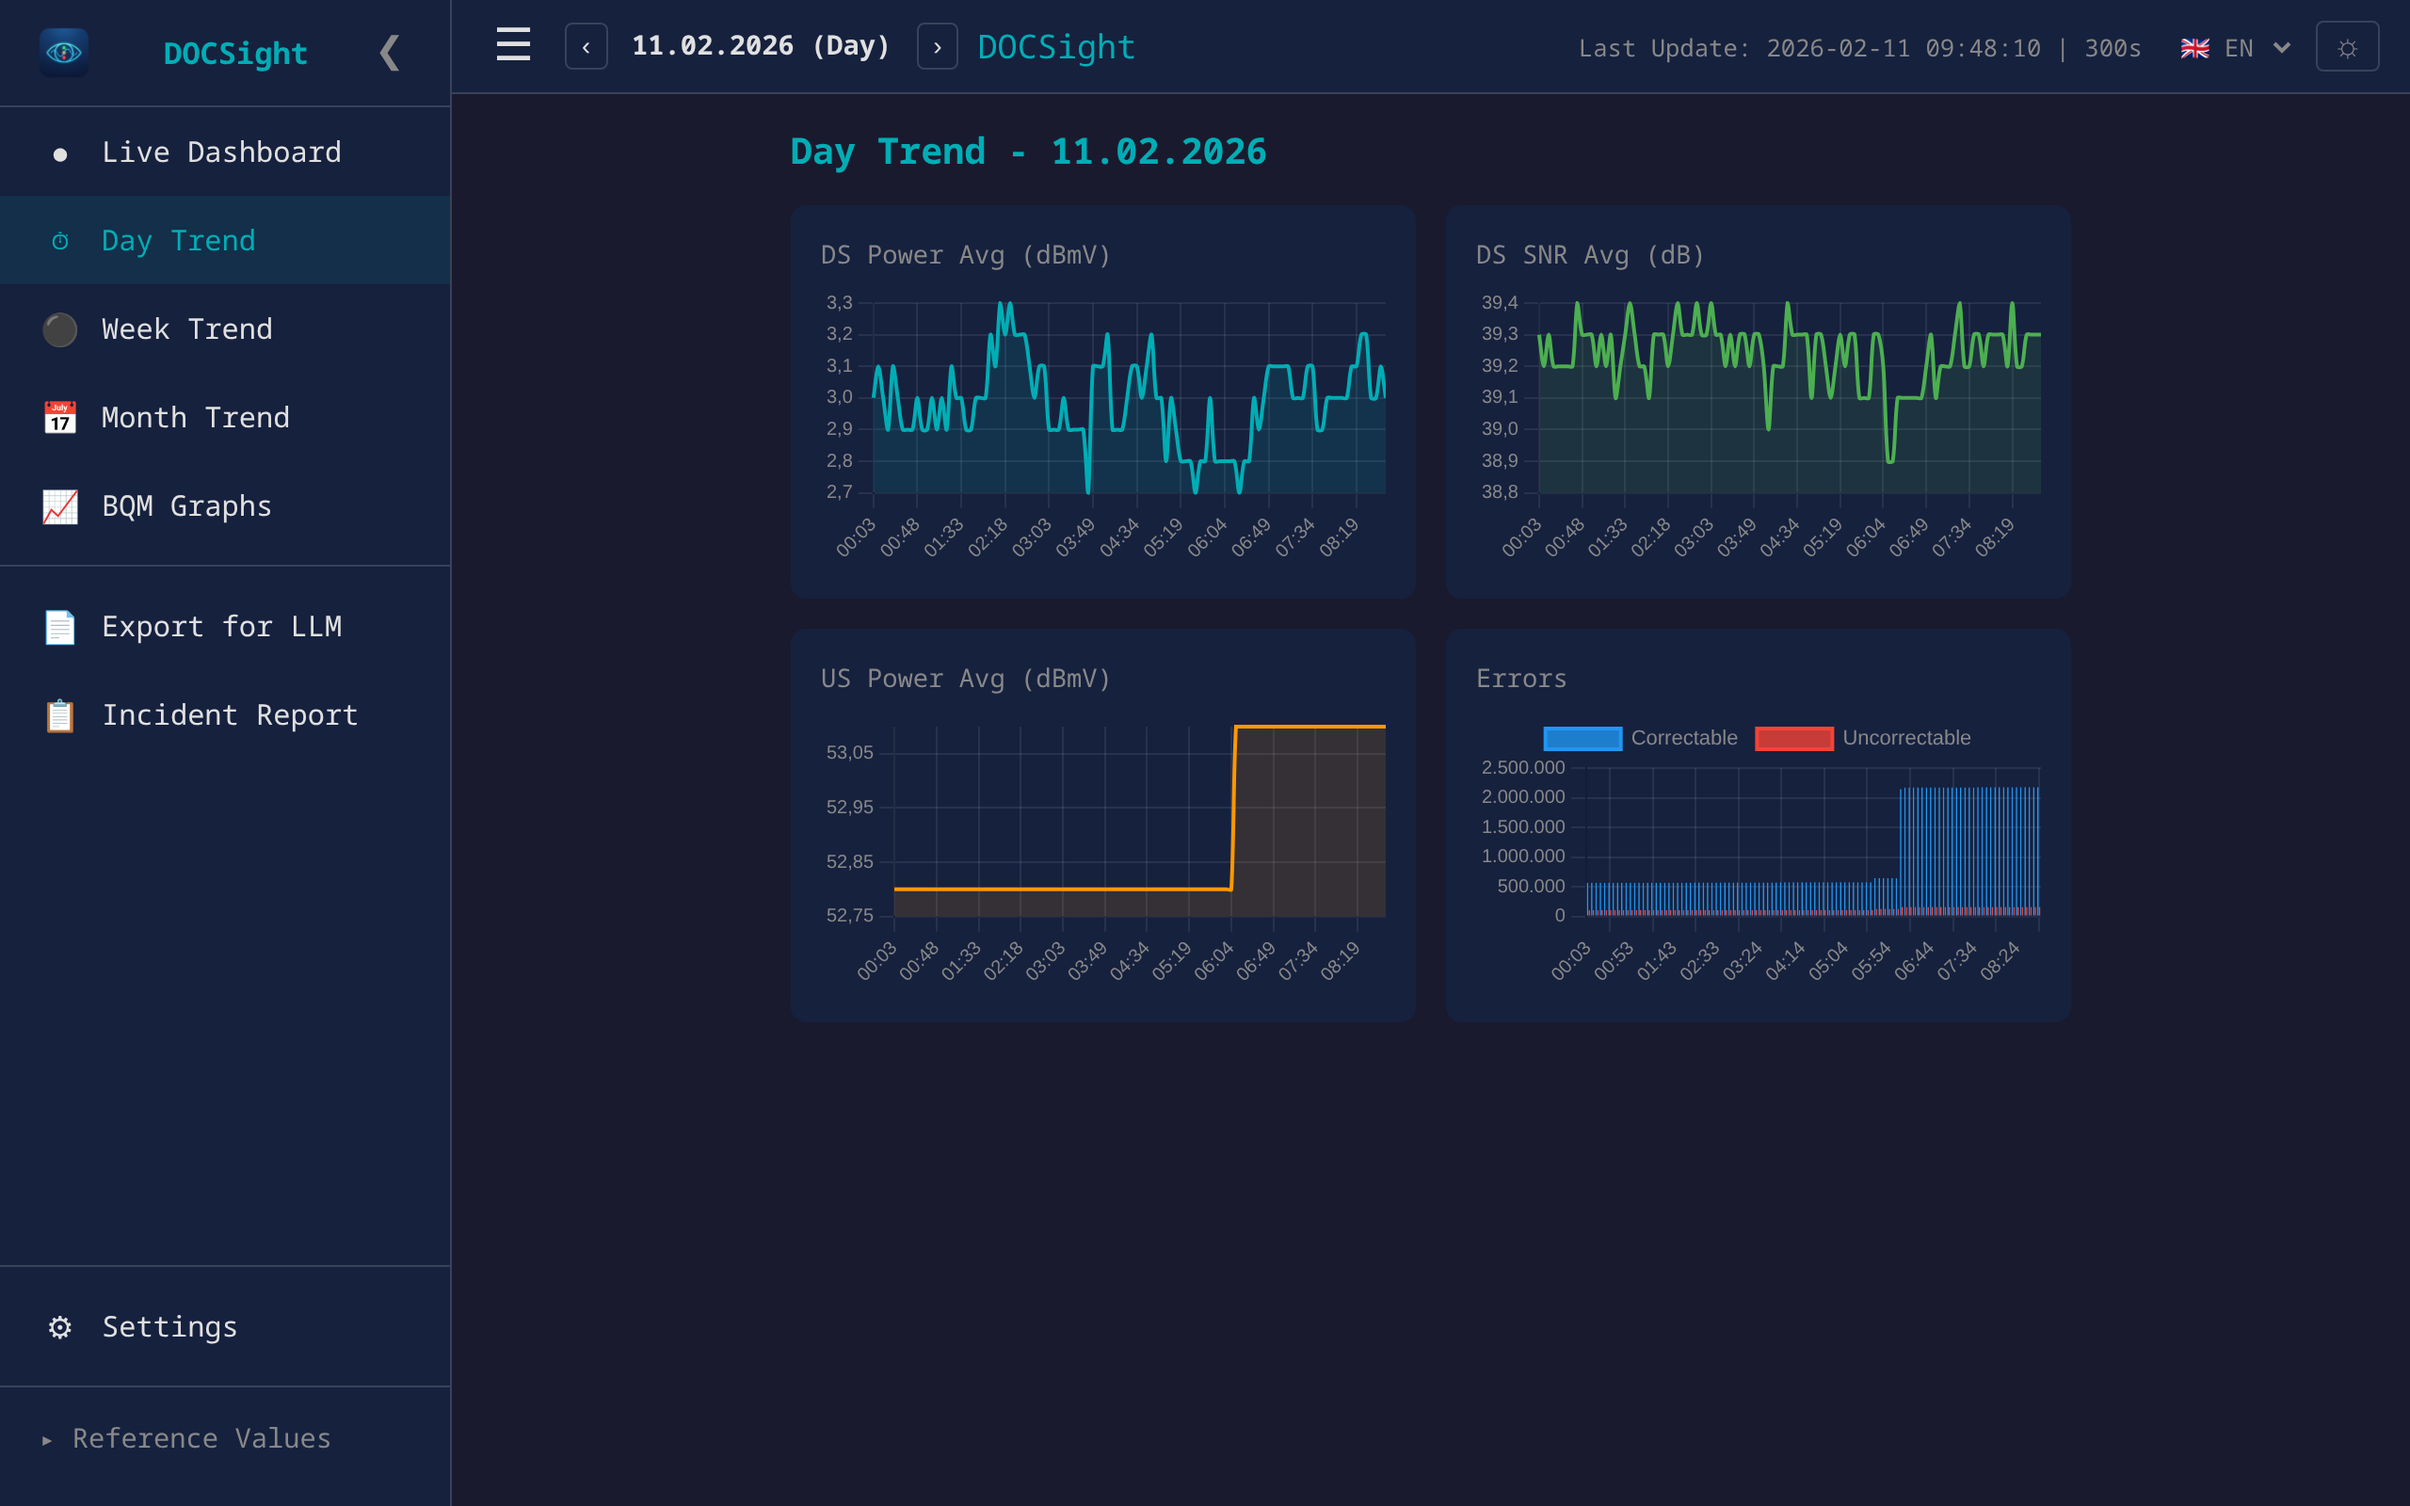
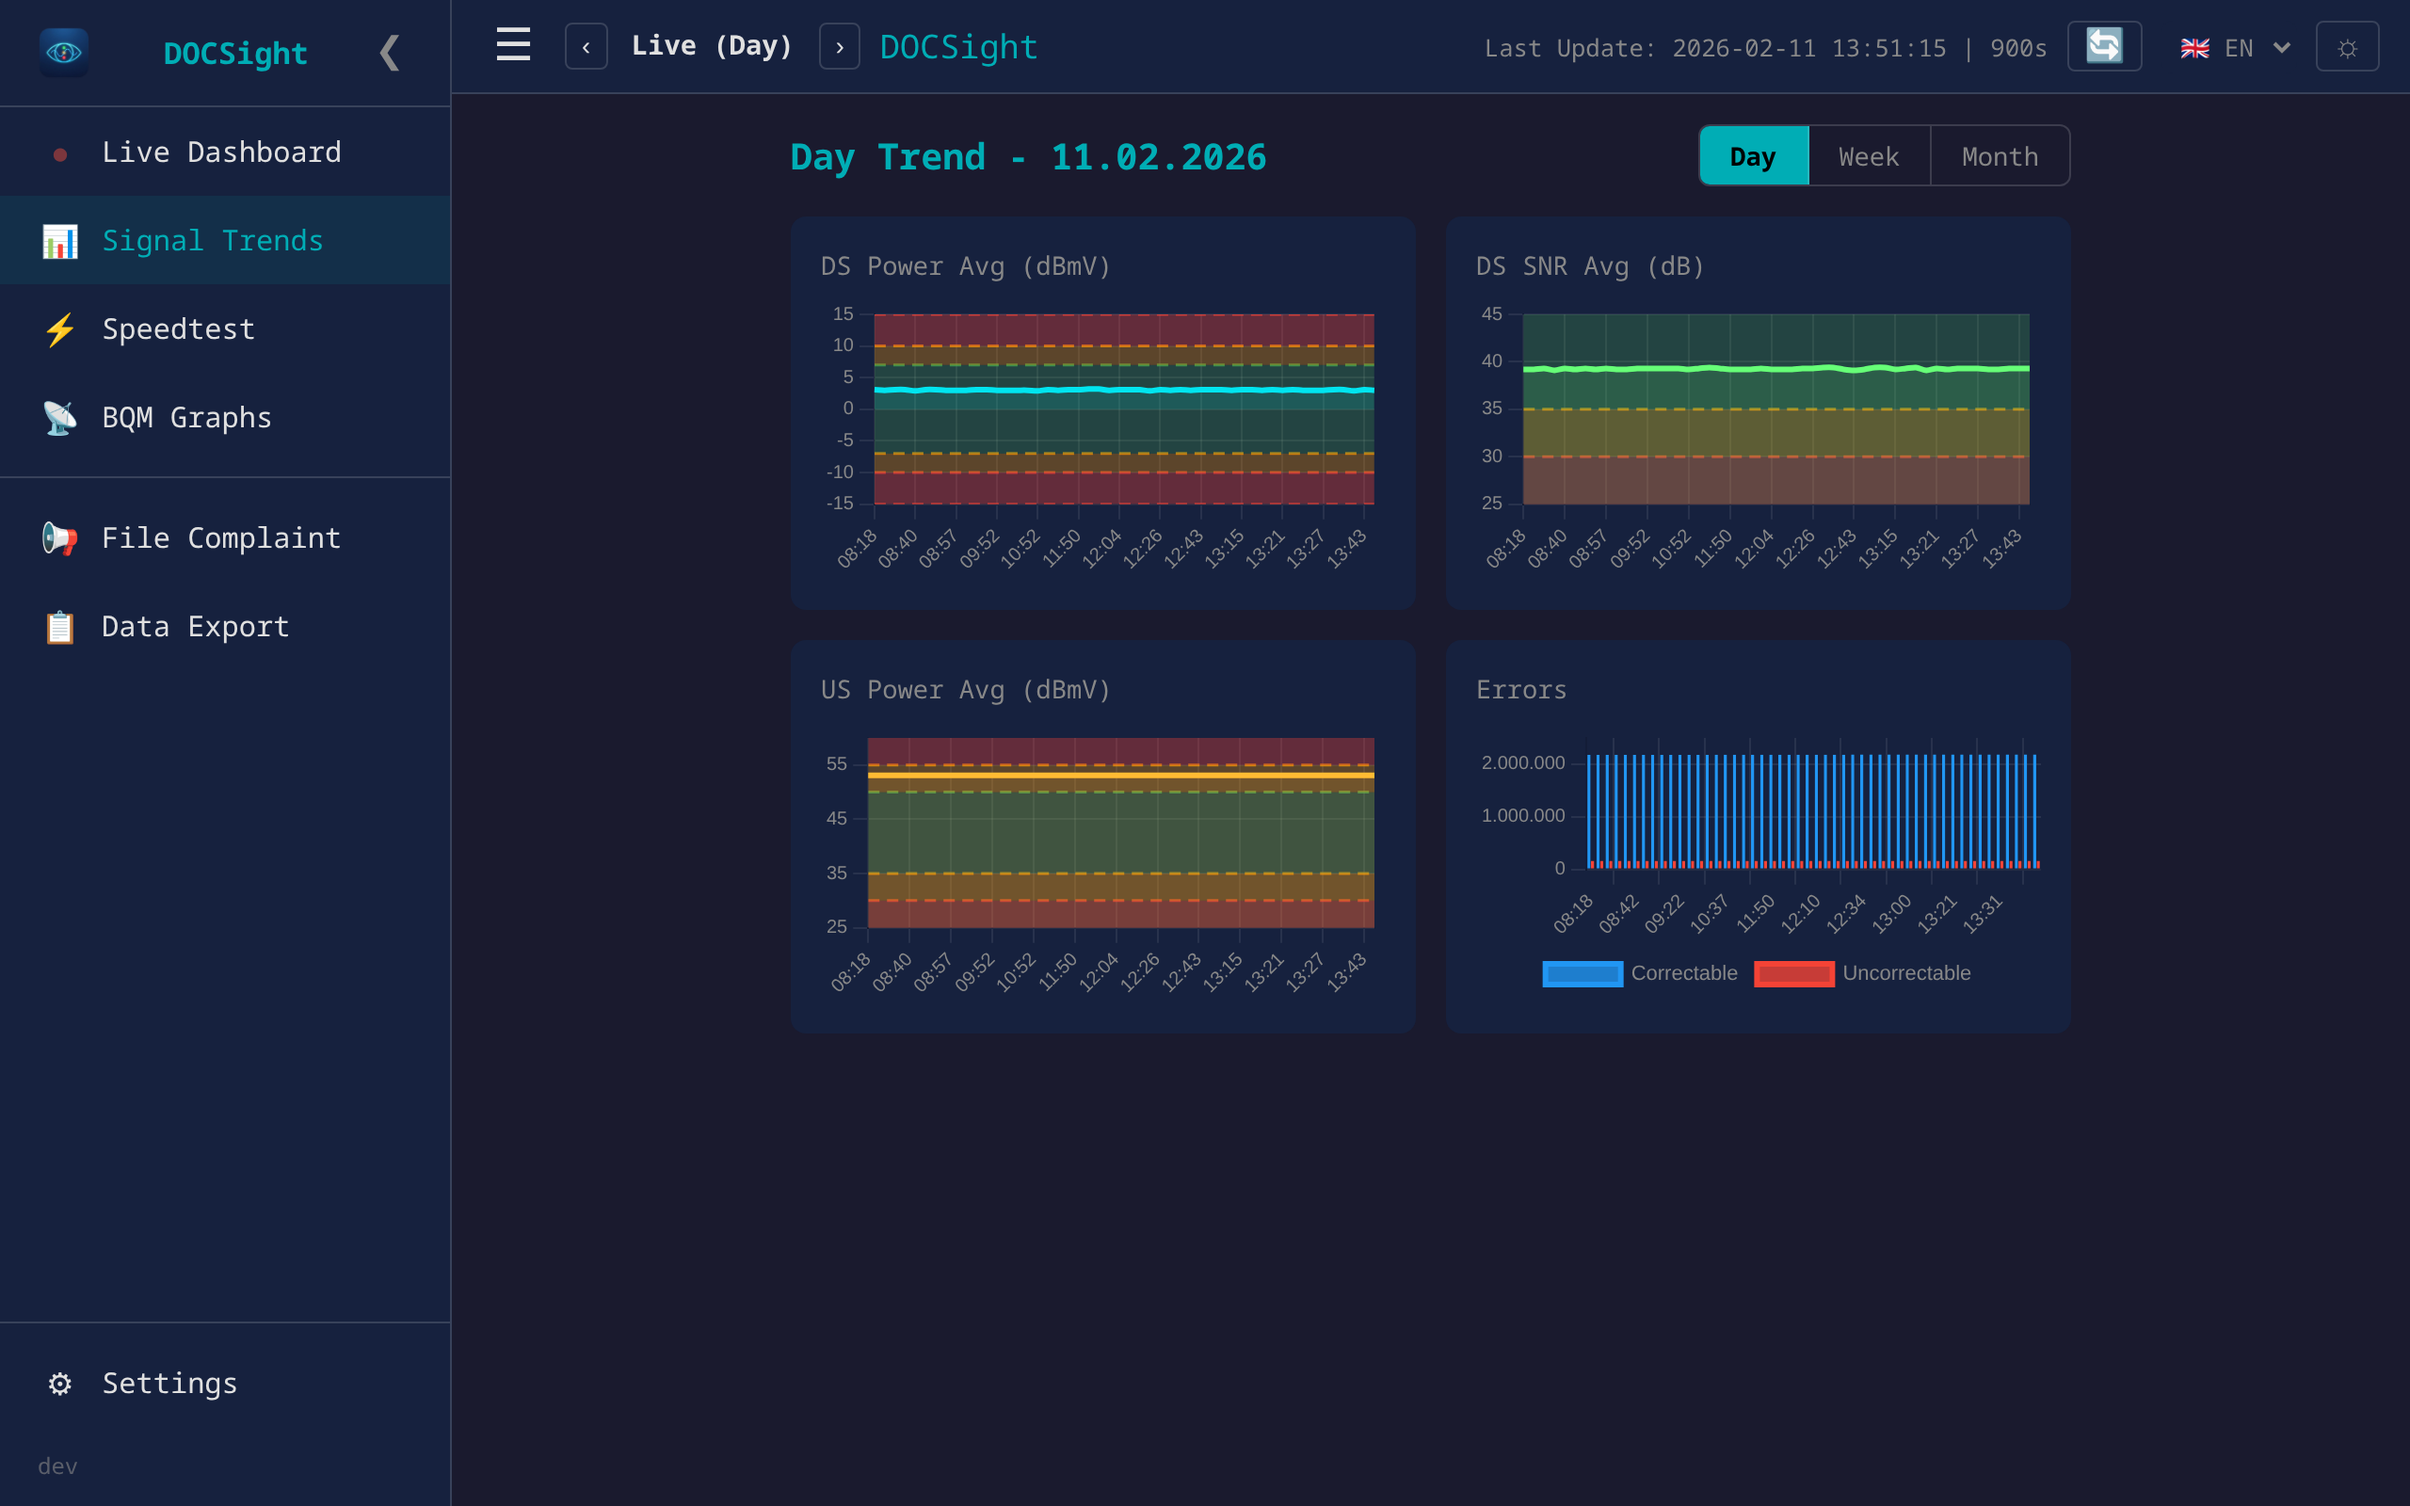
Update screenshots and README for v2026-02-11.2 release

diff --git a/README.md b/README.md
@@ -87,9 +87,11 @@ The DOCSight dashboard shows technical measurements from your cable modem. Here'
 <details>
 <summary><strong>Monitoring & Diagnostics</strong></summary>
 
-- **Web Dashboard**: Real-time channel data with health assessment, trend charts, and calendar navigation
+- **Web Dashboard**: Real-time channel data with health assessment, metric cards, and calendar navigation
 - **Health Assessment**: Automatic traffic-light evaluation with actionable recommendations
-- **Trend Charts**: Track signal quality over days, weeks, or months to spot recurring issues
+- **Signal Trends**: Interactive charts with DOCSIS reference zones (color-coded thresholds) for day/week/month views
+- **Speedtest Tracker Integration**: Pull speed test results (download, upload, ping, jitter) from a self-hosted [Speedtest Tracker](https://github.com/alexjustesen/speedtest-tracker) instance with charts, sortable history, and anomaly highlighting
+- **Incident Report**: Two-step complaint flow with editable ISP letter + downloadable technical PDF
 - **LLM Export**: Generate structured reports for AI analysis (ChatGPT, Claude, Gemini, etc.)
 - **ThinkBroadband BQM**: Daily fetch and archive of broadband quality graphs with gallery view
 
@@ -99,8 +101,10 @@ The DOCSight dashboard shows technical measurements from your cable modem. Here'
 <summary><strong>Ease of Use</strong></summary>
 
 - **Setup Wizard**: Browser-based configuration — no .env file needed
-- **4 Languages**: English, German, French, and Spanish UI
+- **4 Languages**: English, German, French, and Spanish UI (181+ translation keys each)
 - **Light/Dark Mode**: Persistent theme toggle
+- **URL Hash Routing**: Bookmark and share specific views (#trends, #speedtest, #bqm)
+- **Zero JavaScript Dependencies**: All charts are pure HTML5 Canvas — no Chart.js, no libraries
 - **Optional Authentication**: Password-protected web UI with scrypt hashing
 
 </details>
@@ -147,17 +151,19 @@ Copy `.env.example` to `.env` and edit:
 | `HISTORY_DAYS` | `0` | Snapshot retention in days (0 = unlimited) |
 | `ADMIN_PASSWORD` | - | Web UI password (optional) |
 | `BQM_URL` | - | ThinkBroadband BQM share URL (.png, optional) |
+| `SPEEDTEST_TRACKER_URL` | - | Speedtest Tracker URL (optional) |
+| `SPEEDTEST_TRACKER_TOKEN` | - | Speedtest Tracker API token (optional) |
 
 </details>
 
 <details>
 <summary><h2>Screenshots</h2></summary>
 
-| Dashboard (Dark) | Dashboard (Light) | Setup Wizard |
-|---|---|---|
-| ![Dark](docs/screenshots/dashboard-dark.png) | ![Light](docs/screenshots/dashboard-light.png) | ![Setup](docs/screenshots/setup.png) |
+| Dashboard (Dark) | Dashboard (Light) |
+|---|---|
+| ![Dark](docs/screenshots/dashboard-dark.png) | ![Light](docs/screenshots/dashboard-light.png) |
 
-| Trend Charts | Health Banner |
+| Signal Trends | Health Assessment |
 |---|---|
 | ![Trends](docs/screenshots/trends.png) | ![Health](docs/screenshots/health-banner.png) |
 
@@ -222,13 +228,14 @@ DOCSight can optionally publish all channel data to Home Assistant via MQTT Auto
 
 ### External Monitoring Integration
 - [x] **ThinkBroadband BQM**: Daily fetch and archive of external broadband quality graphs (latency, packet loss)
-- [ ] **Speedtest Tracker**: Pull speed test results (download, upload, ping, jitter) from self-hosted [Speedtest Tracker](https://github.com/alexjustesen/speedtest-tracker)
+- [x] **Speedtest Tracker**: Pull speed test results from self-hosted [Speedtest Tracker](https://github.com/alexjustesen/speedtest-tracker) with interactive charts, sortable history, anomaly highlighting, and incremental SQLite caching
 
 ### Enhanced Dashboard
 - [ ] Combined timeline: DOCSIS health + speed tests + BQM graph on a single time axis
 - [ ] Notification system: Webhooks on health degradation
 - [ ] Mobile-responsive layout
 - [ ] Power level drift detection: Alert on relative changes (e.g. +3 dB in 24h) in addition to absolute thresholds
+- [x] Manual poll buttons: Trigger FritzBox and Speedtest Tracker data refresh on demand
 
 ### Multi-Modem Support
 - [ ] Plugin architecture for modem drivers
